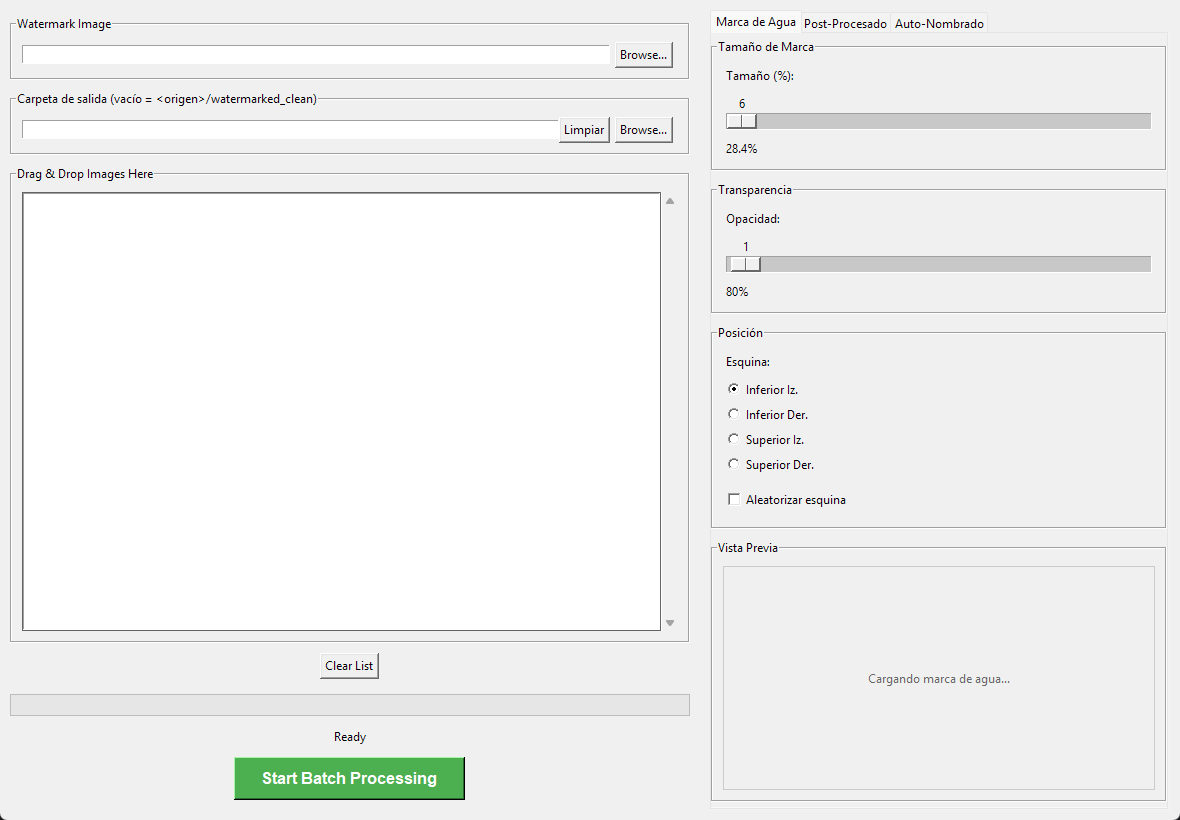
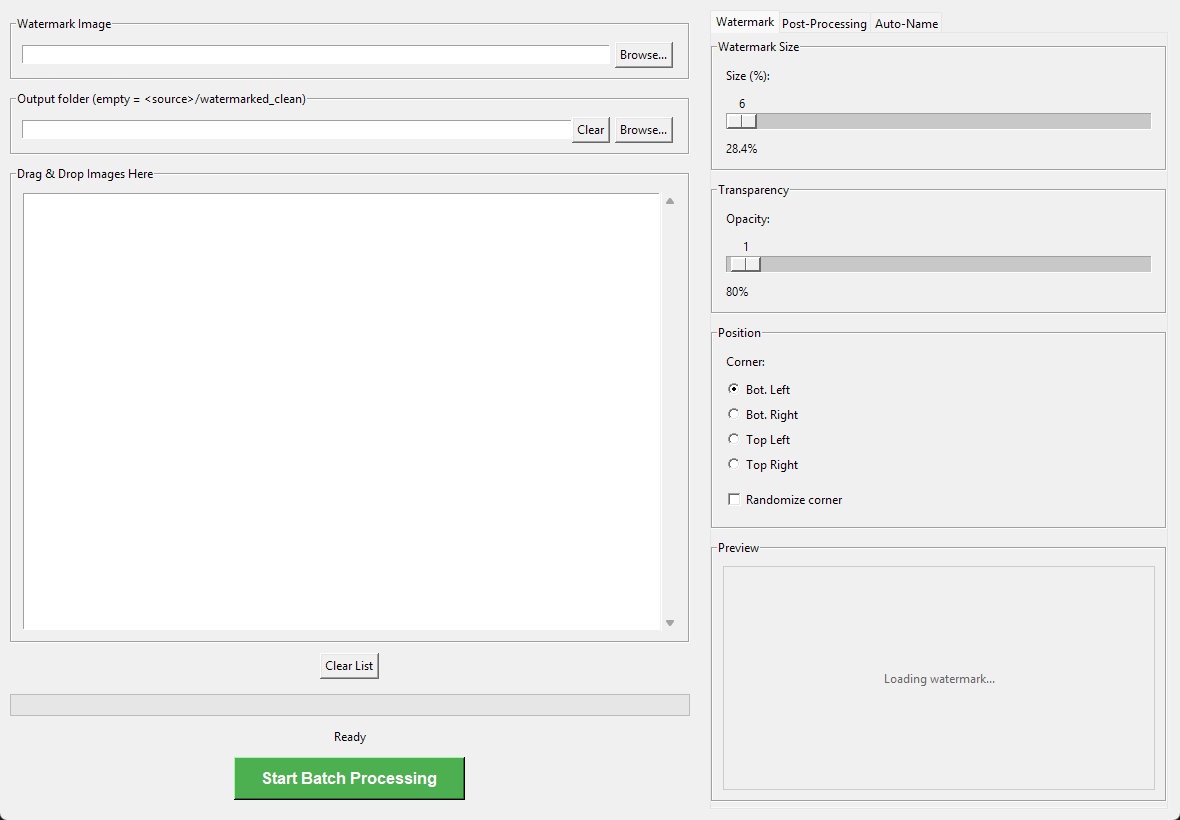
Update screenshot (English UI) and installation instructions

diff --git a/README.md b/README.md
@@ -37,19 +37,27 @@ AI image creators who generate batches of images and need to:
 - **Auto-naming from ComfyUI metadata** — extracts character tags from ComfyUI-generated PNG prompts and renames output files
 - **Batch processing** with progress bar
 
-## Quick Start
+## Installation
+
+### Download (Windows)
+
+Grab the latest `FastWatermark.exe` from the [Releases](https://github.com/Mexes-GM/fast-watermark/releases) page. No Python required — just double-click and run.
+
+### Run from source (any OS)
 
 ```bash
 pip install pillow opencv-python numpy tkinterdnd2
 python FastWatermarkApp.py
 ```
 
+## Usage
+
 1. Select a watermark image via **Browse** or drag & drop it onto the field
 2. Drag images/videos into the list
 3. Tweak settings in the tabs (preview updates live)
 4. Click **Start Batch Processing**
 
-Settings persist in `watermark_config.json` next to the script. See `watermark_config.example.json` for defaults.
+Settings persist in `watermark_config.json` next to the executable. See `watermark_config.example.json` for defaults.
 
 ## Project Structure
 